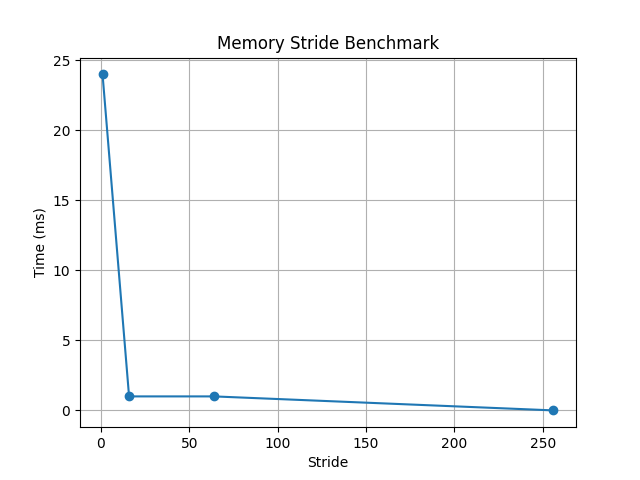
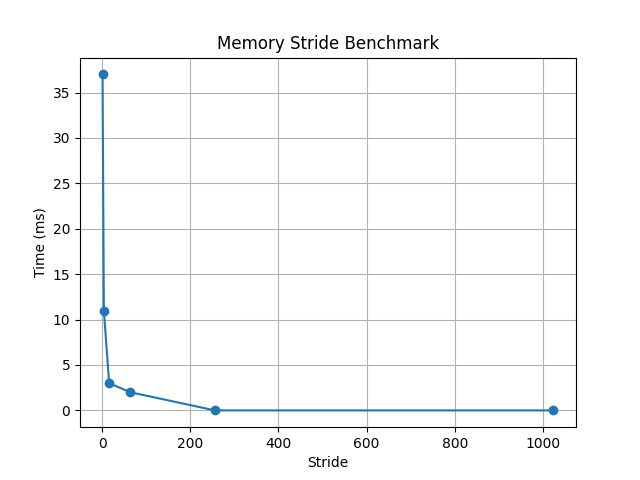
extended size

diff --git a/src/benchmarks.cpp b/src/benchmarks.cpp
@@ -58,19 +58,19 @@ int main() {
        fout << "test,type,value,time_ms\n";
 
        // Sorting benchmark
-       for(size_t size : {100000, 500000, 1000000}) {
+       for(size_t size : {100000, 500000, 1000000, 5000000, 10000000, 50000000}) {
            long long ms = run_sort_test(size);
            fout << "sort,array_size," << size << "," << ms << "\n";
        }
 
        // Memory benchmark
-       for(size_t stride : {1, 16, 64, 256}) {
+       for(size_t stride : {1, 4, 16, 64, 256, 1024}) {
            long long ms = run_memory_stride_test(1e7, stride);
            fout << "memory_stride,stride," << stride << "," << ms << "\n";
        }
 
        // Multithreading benchmark
-       for(int threads : {1, 2, 4, 8}) {
+       for(int threads : {1, 2, 4, 8, 16, 32}) {
            long long ms = run_multithread_test(threads);
            fout << "threads,count," << threads << "," << ms << "\n";
        }
